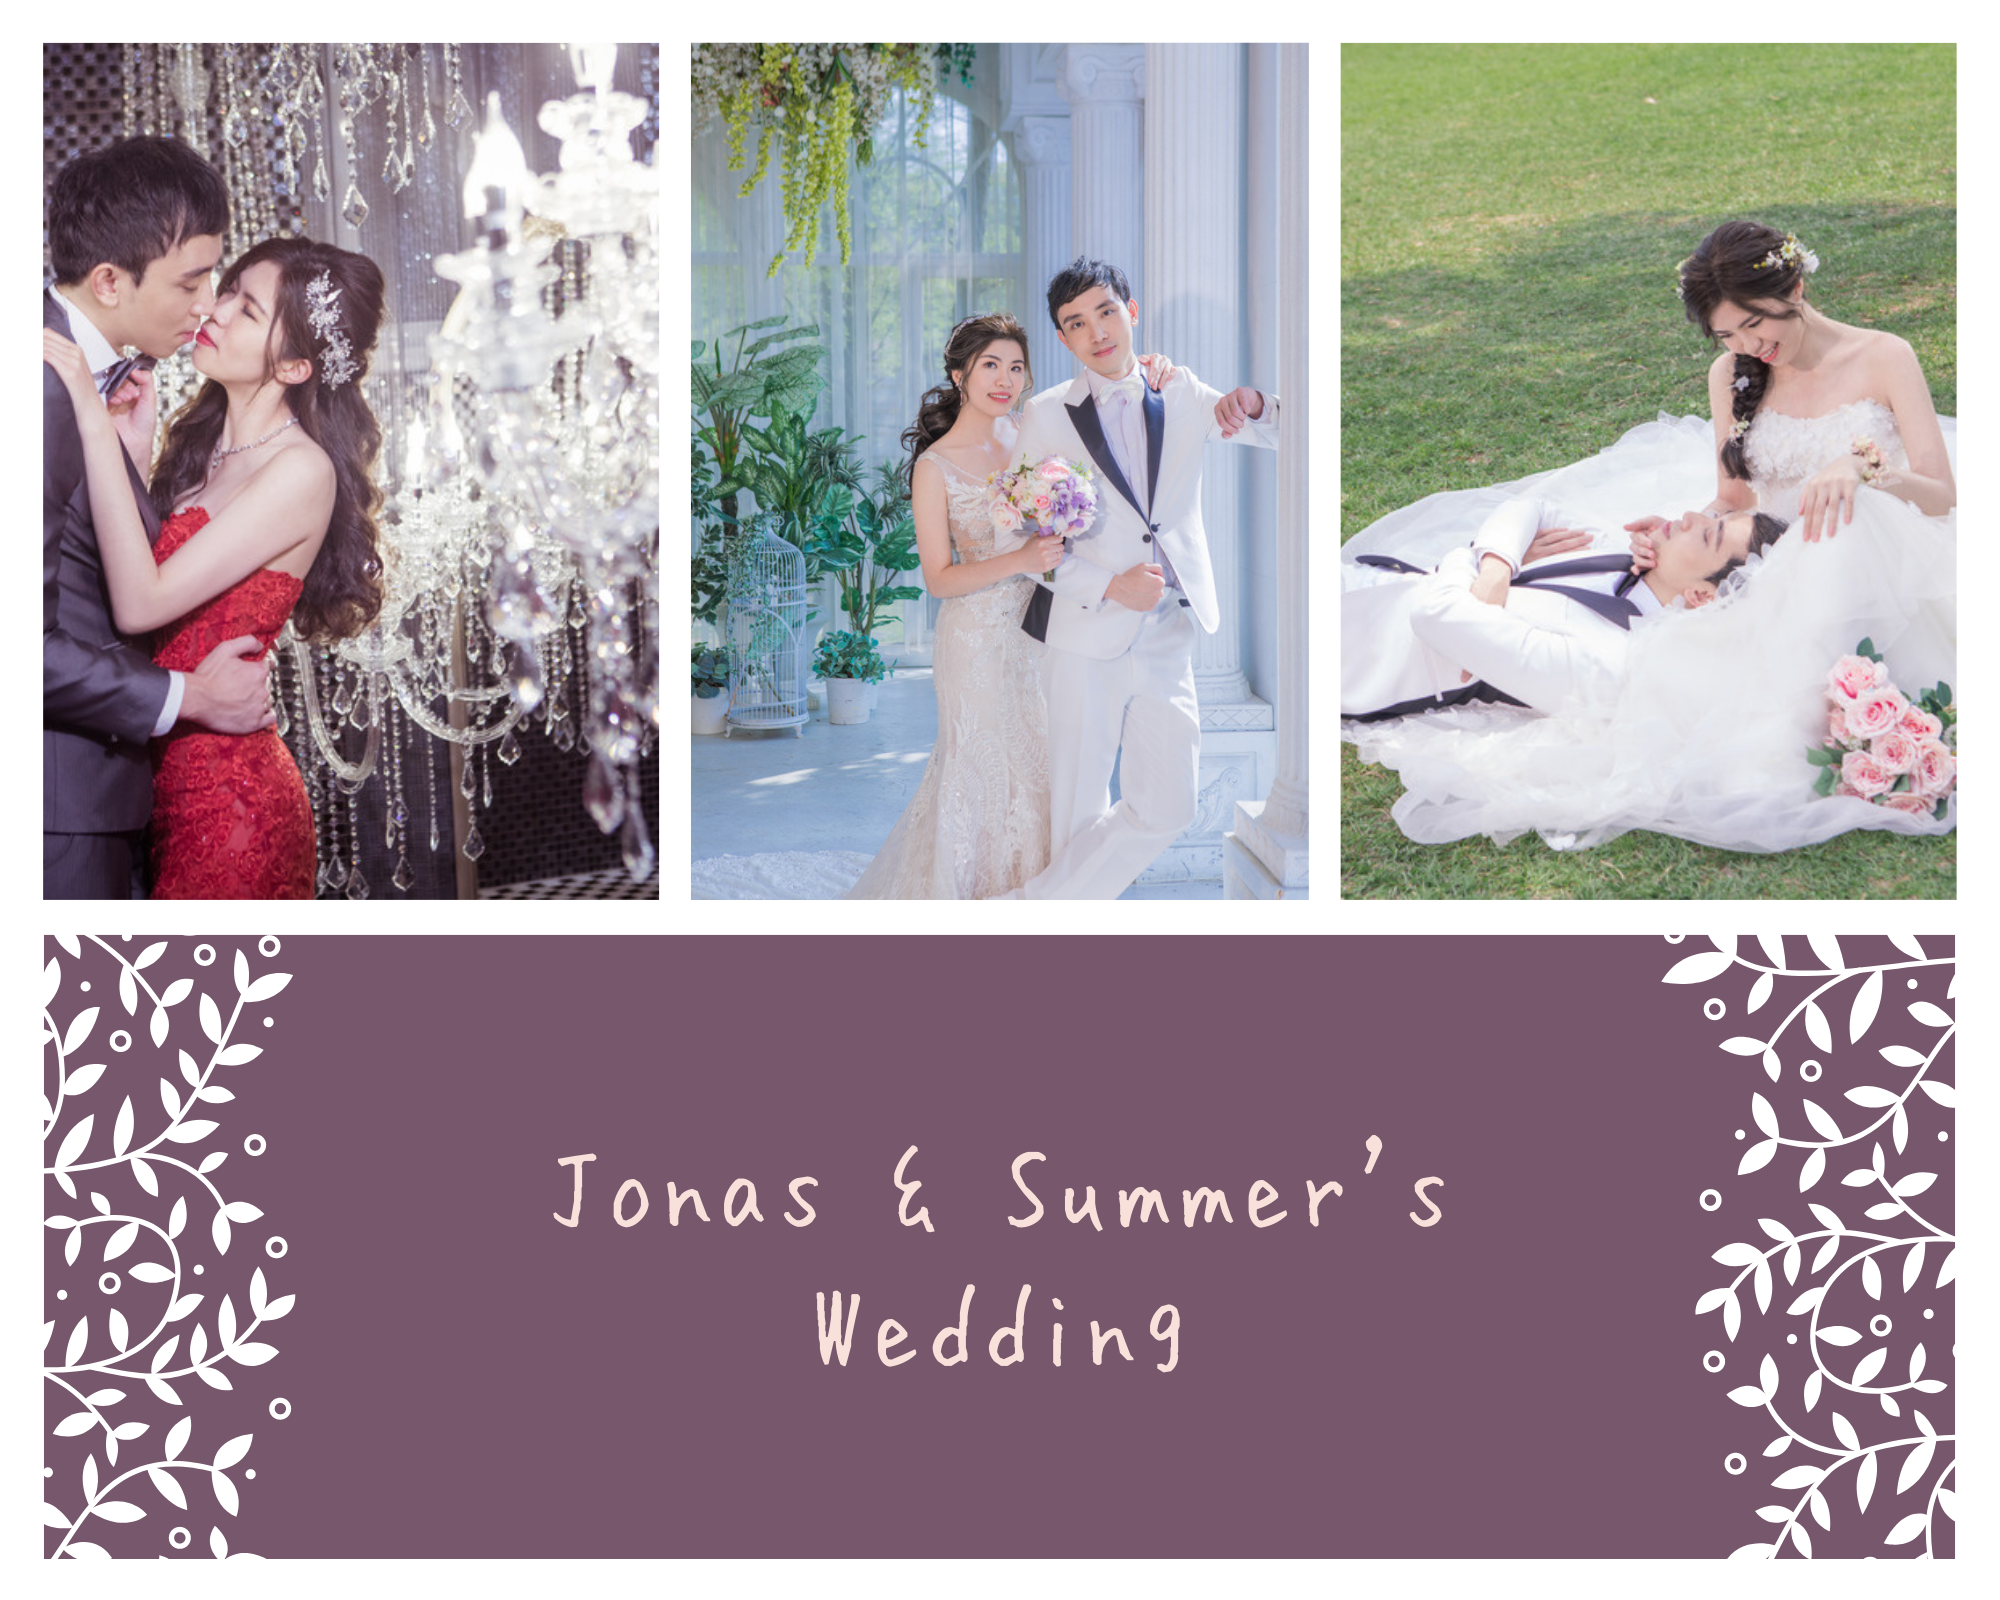
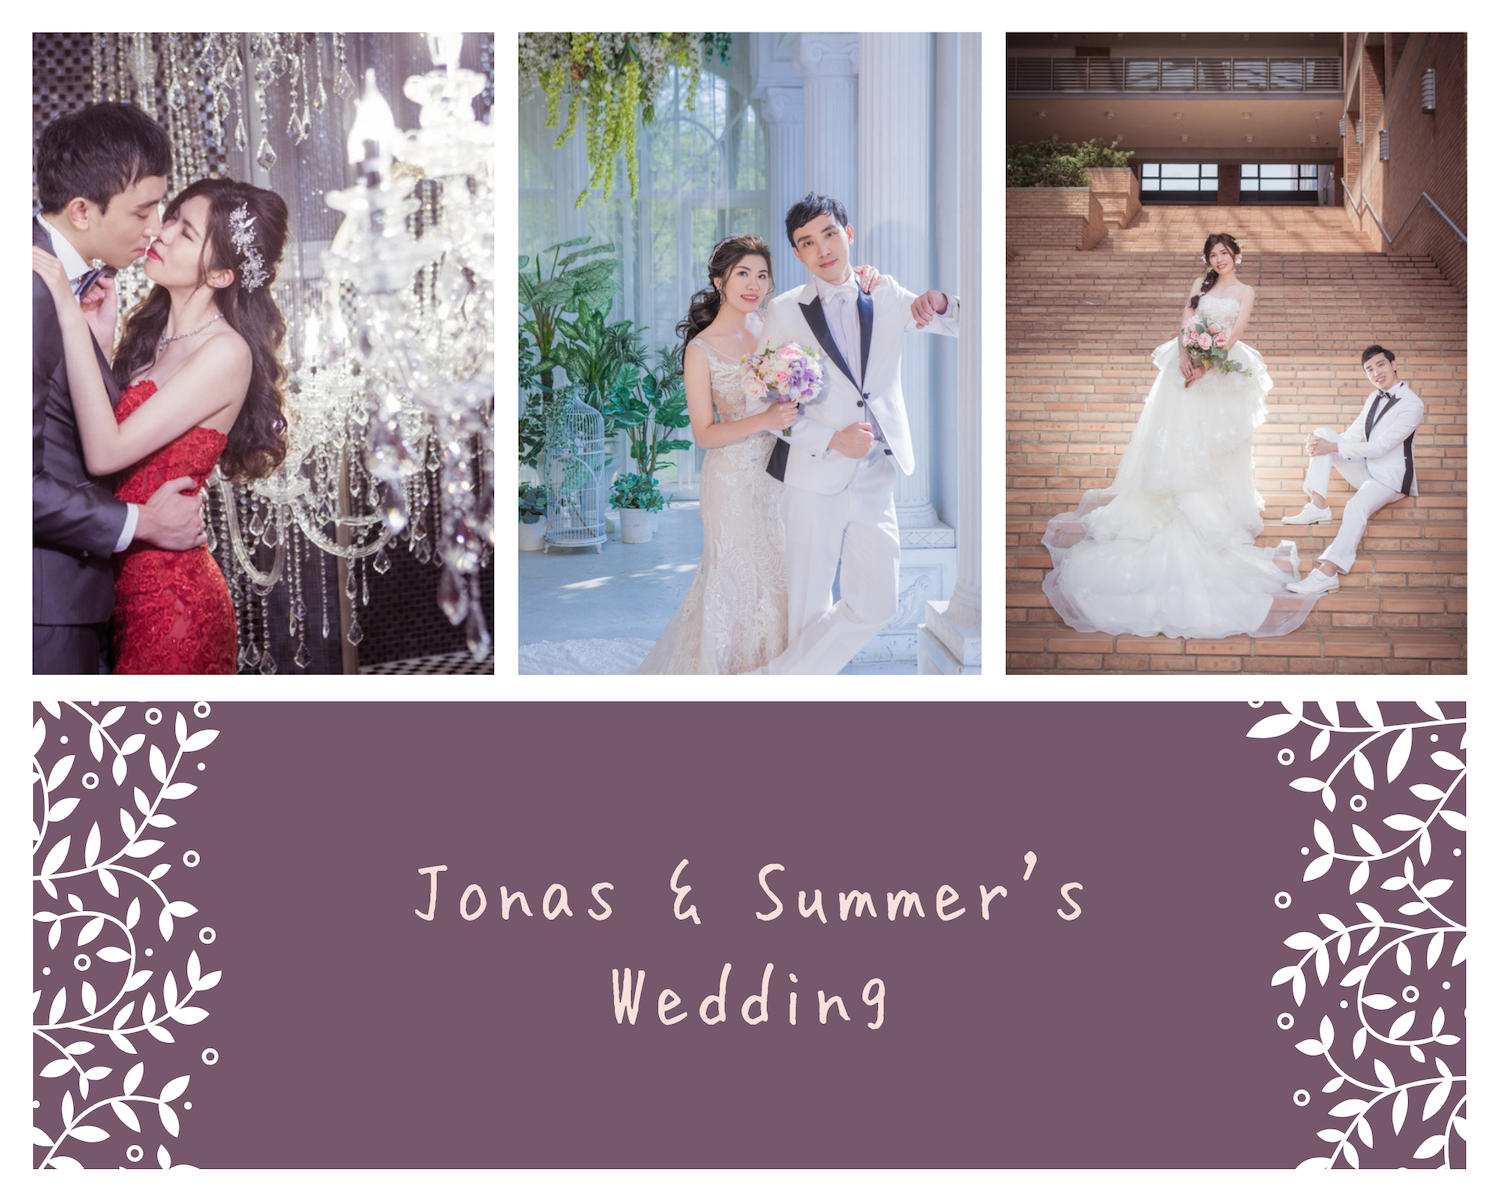
add new photo and fix style

Changed region(s): [[0.644, 0.0, 0.9813, 0.5858]]

diff --git a/js/script.js b/js/script.js
@@ -1,6 +1,6 @@
 
 var imgFile = [];
-var fileNum = 3;
+var fileNum = 5;
 var main = document.querySelector('.main');
 var thumb = document.querySelector('.thumb');
 var prev = document.querySelector('.prev');
@@ -60,6 +60,17 @@ Array.from(pages).forEach(function(item){
 //-------------------------
 function imgShow(img_num){
 	main.src = `images/${imgFile[img_num]}.png`;
+	if (img_num <= 0) {
+		document.getElementsByClassName("prev")[0].style.display = "none";
+	} else {
+		document.getElementsByClassName("prev")[0].style.display = "";
+	}
+
+	if (img_num >= fileNum - 1) {
+		document.getElementsByClassName("next")[0].style.display = "none";
+	} else {
+		document.getElementsByClassName("next")[0].style.display = "";
+	}
 }
 imgShow(startNum);
 //-------------------------

diff --git a/css/style.css b/css/style.css
@@ -48,6 +48,13 @@ body {
   overflow: hidden;
 }
 
+.box-bottom {
+  text-align: center;
+  max-width: 700px;
+  margin: 0 auto;
+  overflow: hidden;
+}
+
 /*------------------ */
 /* $Header */
 /*------------------ */
@@ -124,12 +131,12 @@ h3 {
   }
 }
 .imgbox span.prev {
-  left: 8px;
+  left: -0px;
   -webkit-animation: arrow_prev 1s infinite;
           animation: arrow_prev 1s infinite;
 }
 .imgbox span.next {
-  right: 8px;
+  right: -0px;
   -webkit-animation: arrow_next 1s infinite;
           animation: arrow_next 1s infinite;
 }
@@ -182,7 +189,7 @@ h3 {
 /* $Page button */
 /*------------------ */
 .page {
-  position: absolute;
+  /* position: absolute; */
   bottom: 0;
   left: 50%;
   -webkit-transform: translateX(-50%);

diff --git a/index.html b/index.html
@@ -17,10 +17,15 @@
 				<span class="prev"><</span>
 				<span class="next">></span>
 			</div>
+			<!-- page button 
+			<p class="page"></p>
+			<img class="thumb" src="">
+			-->
+		</div>
+		<div class="box-bottom">
 			<!-- page button -->
 			<p class="page"></p>
 			<img class="thumb" src="">
-
 		</div>
 	</div>
 	<!-- JavaScript -->
